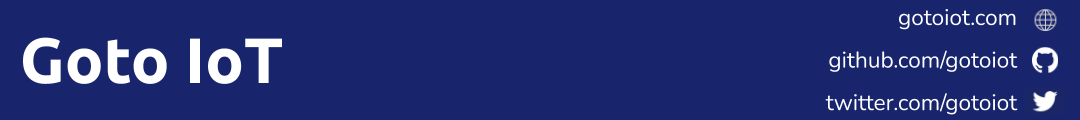
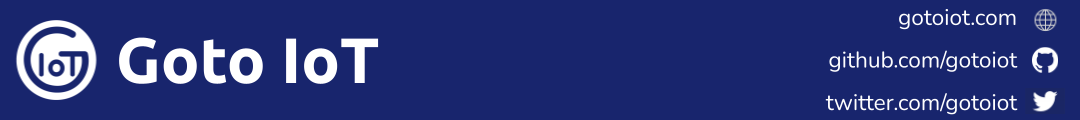
Updates README info and footer

Changed region(s): [[0.0, 0.15, 0.3667, 0.85], [0.7944, 0.825, 0.825, 0.875]]

diff --git a/README.md b/README.md
@@ -4,7 +4,6 @@
 
 ## Tabla de contenido
 
-* [Información importante](#Información-importante)
 * [Introducción](#introducción)
 * [Instalar dependencias](#instalar-dependencias)
 * [Descargar el código](#descargar-el-código)
@@ -12,19 +11,9 @@
 * [Colaborar](#colaborar)
 * [Licencia](#licencia)
 
-## Información importante
-
-> Para leer artículos relacionados con tecnologías IoT visitar nuestro sitio web [gotoiot.com](https://www.gotoiot.com).
-
-> Para ver toda la documentación de los proyectos de manera abarcativa y organizada visitar nuestra [wiki de Goto IoT](https://github.com/gotoiot/doc/wiki).
-
-> En caso de encontrar algún problema, comentarlo en nuestro [foro de Goto IoT](https://groups.google.com/g/gotoiot) para encontrar una solución entre los miembros de la comunidad.
-
-> Muchos de los proyectos implementados en Goto IoT utilizan Visual Studio Code como IDE de desarrollo debido a su potencia y capacidad de instalar extensiones útiles de desarrollo, por lo que se recomienda descargarlo desde [este link](https://code.visualstudio.com/download). 
-
-> Para poder probar el código es necesario contar con un broker MQTT. Consultar nuestra [sección de proyectos](https://www.gotoiot.com/pages/projects) para encontrar información al respecto.
-
 ## Introducción
+
+> Si todavía no conoces como está estructurada la plataforma Goto IoT es recomendable que leas la [información contextual](https://github.com/gotoiot/doc/wiki#informaci%C3%B3n-contextual) de nuestra wiki, que te puede ser de utilidad.
 
 Este proyecto es una Single Page Application (SPA) que se comunica con un broker MQTT através de WebSockets y actúa como una terminal, donde se pueden enviar topics, suscribirse y visualizar los mensajes. 
 
@@ -32,9 +21,9 @@ Funciona en cualquier navegador actual y está implementado utilizando código J
 
 ## Instalar dependencias
 
-Para este proyecto únicamente es necesario un navegador actual, aunque se recomienda que el contenido sea accedido a través de un servidor web. 
+Para correr este proyecto únicamente es necesario un navegador actual, aunque se recomienda que el contenido sea accedido a través de un servidor web. Se puede implementar cualquier servidor de preferencia, aunque si se utiliza Visual Studio Code la extensión [Live Server](https://github.com/ritwickdey/vscode-live-server.git) es un servidor web integrado extremadamente fácil de utilizar.
 
-Se puede implementar cualquier servidor de preferencia. Si se utiliza Visual Studio Code la extensión [Live Server](https://github.com/ritwickdey/vscode-live-server.git) es un servidor web integrado extremadamente fácil de utilizar.
+Así mismo será necesario contar con un broker MQTT corriendo para realizar las pruebas. En la [sección de proyectos de la web](https://www.gotoiot.com/pages/projects) o bien dentro de los [repositorios de Goto IoT](https://github.com/gotoiot?q=mqtt) se puede encontrar información al respecto.
 
 ## Descargar el código
 
